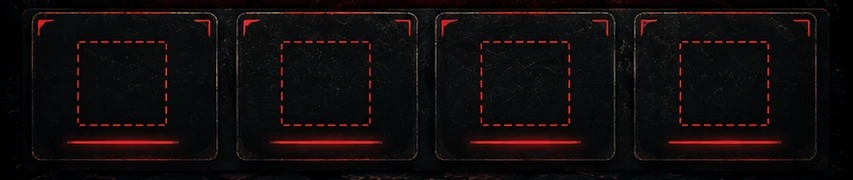
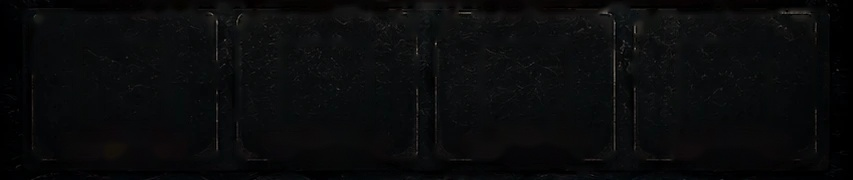
Home + tab bar: remove marker graphics, fix crop/type per feedback
The red dashed boxes, corner brackets, corner flags and underline glow in
the approved layout map were only ever "put data here" annotations, not
permanent UI, as confirmed by the product owner after seeing them still
visible in a real build. Inpainted them out of the source composite
(scoped tightly to the dynamic-content card interiors only, so the baked
"UNDER OBSERVATION" / "IN THE TINDER JUNGLE" copy and every icon/label
were untouched) and re-exported both home_bg.jpg and tabbar_bg.jpg from
the cleaned result — the cards now read as plain, finished art with the
real overlaid values sitting on top of them, not inside a still-visible
placeholder outline.

Also, while re-exporting:

- home_bg.jpg's crop previously started at y=90, which sliced the very top
  of the ZUZA lettering with ~0 margin. The composite only has a genuinely
  clean gap between the status-bar mockup row and the title (y=60–93 in
  the source) — moved the crop to y=64 and increased the code-side top
  spacer so there's real breathing room above the title now.
- Stat numbers (ACTIVITIES/TIME TOGETHER/EVIDENCE/INCIDENTS) sized up
  (14→21, still bold) — they were reading too small for a headline stat.
  First-contact date sized down and de-bolded (14/700→13/400) — it's a
  single short value, not a stat headline, and didn't need the same
  treatment.
- Tab bar icon/label vertical position was anchored to the (now-removed)
  dashed square and underline; re-anchored to a plain reasonable split of
[…]

diff --git a/app/(tabs)/home.tsx b/app/(tabs)/home.tsx
@@ -19,8 +19,14 @@
 // earlier passes this replaces.
 //
 // The overlay container's aspectRatio matches home_bg.jpg's exact pixel ratio
-// (853x1510) so the image and every percentage-positioned overlay child
+// (853x1536) so the image and every percentage-positioned overlay child
 // always scale together, with zero coordinate drift across screen sizes.
+//
+// The red dashed boxes / brackets / corner flags from the original layout
+// map were only ever meant as "put data here" annotations, not permanent UI
+// — they've been inpainted out of the source composite (see the export
+// script this asset came from) so the cards read as plain, finished art
+// once the real values are overlaid.
 
 import { Ionicons } from '@expo/vector-icons';
 import * as ImagePicker from 'expo-image-picker';
@@ -39,7 +45,7 @@ import { colors, fonts } from '@/theme/tokens';
 // Exact pixel size of assets/noir/home/home_bg.jpg — keep in sync if it's
 // ever re-cropped.
 const BG_W = 853;
-const BG_H = 1510;
+const BG_H = 1536;
 const ASPECT = BG_W / BG_H;
 
 // All percentages below were measured directly off the source composite
@@ -61,8 +67,10 @@ const ZONES = {
 
 function pct(x: number, y: number, w: number, h: number) {
   // Source pixel coords are relative to the full wireframe; home_bg.jpg was
-  // cropped starting at y=90, so subtract that before converting to %.
-  const CROP_TOP = 90;
+  // cropped starting at y=64 (right after the status-bar mockup row, before
+  // the ZUZA title's top stroke — cropping any lower clips the letters), so
+  // subtract that before converting to %.
+  const CROP_TOP = 64;
   return {
     left: `${(x / BG_W) * 100}%`,
     top: `${((y - CROP_TOP) / BG_H) * 100}%`,
@@ -100,7 +108,7 @@ export default function HomeScreen() {
   return (
     <Screen>
       <ScrollView contentContainerStyle={styles.scrollContent}>
-        <View style={{ height: insets.top + 20 }} />
+        <View style={{ height: insets.top + 36 }} />
         <View style={styles.bgContainer}>
           <Image
             source={require('../../assets/noir/home/home_bg.jpg')}
@@ -126,12 +134,12 @@ export default function HomeScreen() {
           </View>
 
           <View style={[styles.zone, ZONES.firstContact]}>
-            <Text style={styles.dataText}>{caseMeta.firstContactDate}</Text>
+            <Text style={styles.firstContactText}>{caseMeta.firstContactDate}</Text>
           </View>
 
           {ZONES.stat.map((z, i) => (
             <View key={i} style={[styles.zone, z]}>
-              <Text style={styles.dataText}>{statValues[i]}</Text>
+              <Text style={styles.statNumberText}>{statValues[i]}</Text>
             </View>
           ))}
 
@@ -189,11 +197,20 @@ const styles = StyleSheet.create({
     lineHeight: 15,
     paddingHorizontal: 8,
   },
-  dataText: {
+  // First-contact date sits in a much smaller box than the stat numbers —
+  // it's a single short label-like value, not a headline stat.
+  firstContactText: {
+    color: colors.textPrimary,
+    fontFamily: fonts.display,
+    fontWeight: '400',
+    letterSpacing: 0.5,
+    fontSize: 13,
+  },
+  statNumberText: {
     color: colors.textPrimary,
     fontFamily: fonts.display,
     fontWeight: '700',
-    fontSize: 14,
+    fontSize: 21,
   },
   quoteText: {
     color: colors.textOnPaper,

diff --git a/app/(tabs)/_layout.tsx b/app/(tabs)/_layout.tsx
@@ -4,8 +4,9 @@
 //
 // Custom tab bar: same "single flat image + minimal overlay" rule as Home
 // (see app/(tabs)/home.tsx) — assets/noir/home/tabbar_bg.jpg is the exact
-// bottom strip of the approved layout map (4 card slots, dashed icon square,
-// red underline glow, all baked in). Code overlays only the actual icon +
+// bottom strip of the approved layout map (4 plain card slots; the original
+// dashed icon square / red underline were annotation-only and are inpainted
+// out, same as Home's dashed boxes). Code overlays only the actual icon +
 // label per tab, positioned by percentage to match the 4 slots exactly.
 
 import { Ionicons } from '@expo/vector-icons';
@@ -44,11 +45,12 @@ const TAB_META: Record<string, { icon: keyof typeof Ionicons.glyphMap; label: st
   profiler: { icon: 'finger-print-outline', label: 'PROFILER' },
 };
 
-// Measured directly off the source composite: the dashed icon square's
-// vertical center and the red underline glow's vertical center, both as a
-// fraction of the SLOT's own height (not the whole strip) — see TAB_SLOTS.
-const ICON_CENTER_PCT = 50.7;
-const LABEL_CENTER_PCT = 90;
+// The dashed icon square / red underline that used to anchor these were
+// annotation-only and have been inpainted out of tabbar_bg.jpg (same "not
+// permanent UI" call as Home's dashed boxes) — the cards are now plain, so
+// icon/label position is just a reasonable split of each slot's height.
+const ICON_CENTER_PCT = 38;
+const LABEL_CENTER_PCT = 76;
 
 function CaseTabBar({ state, descriptors, navigation }: any) {
   const insets = useSafeAreaInsets();
